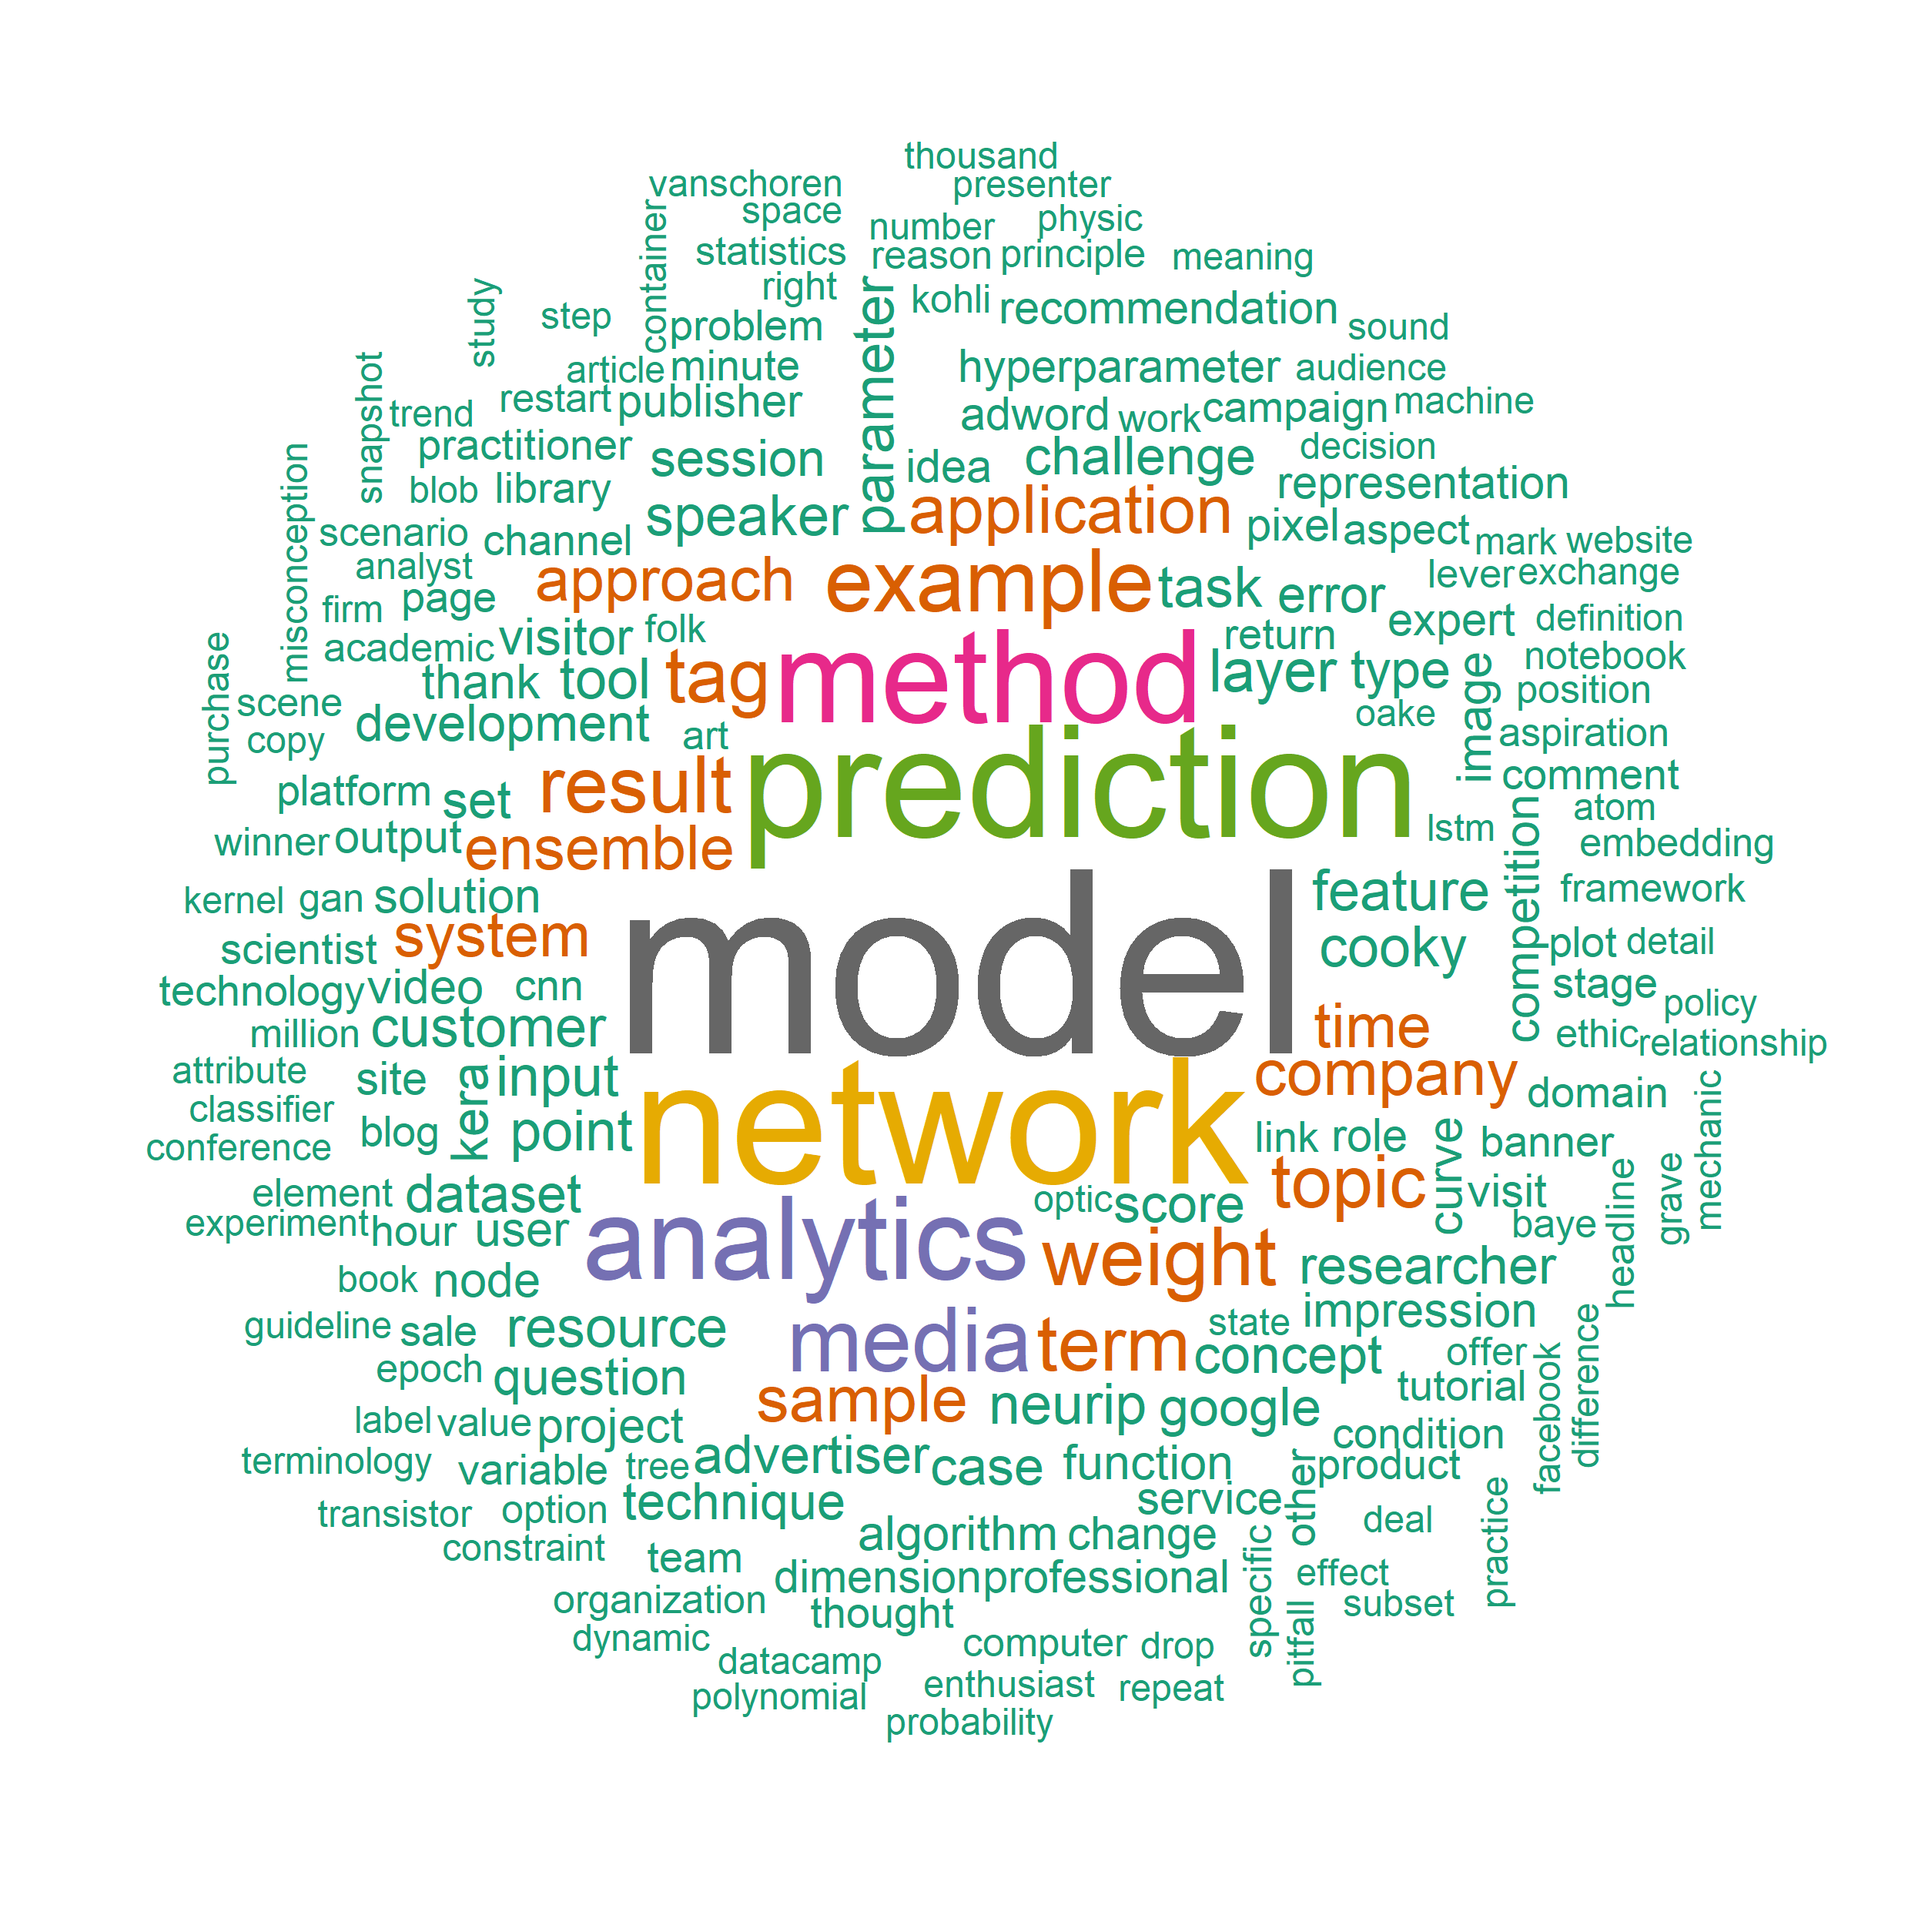
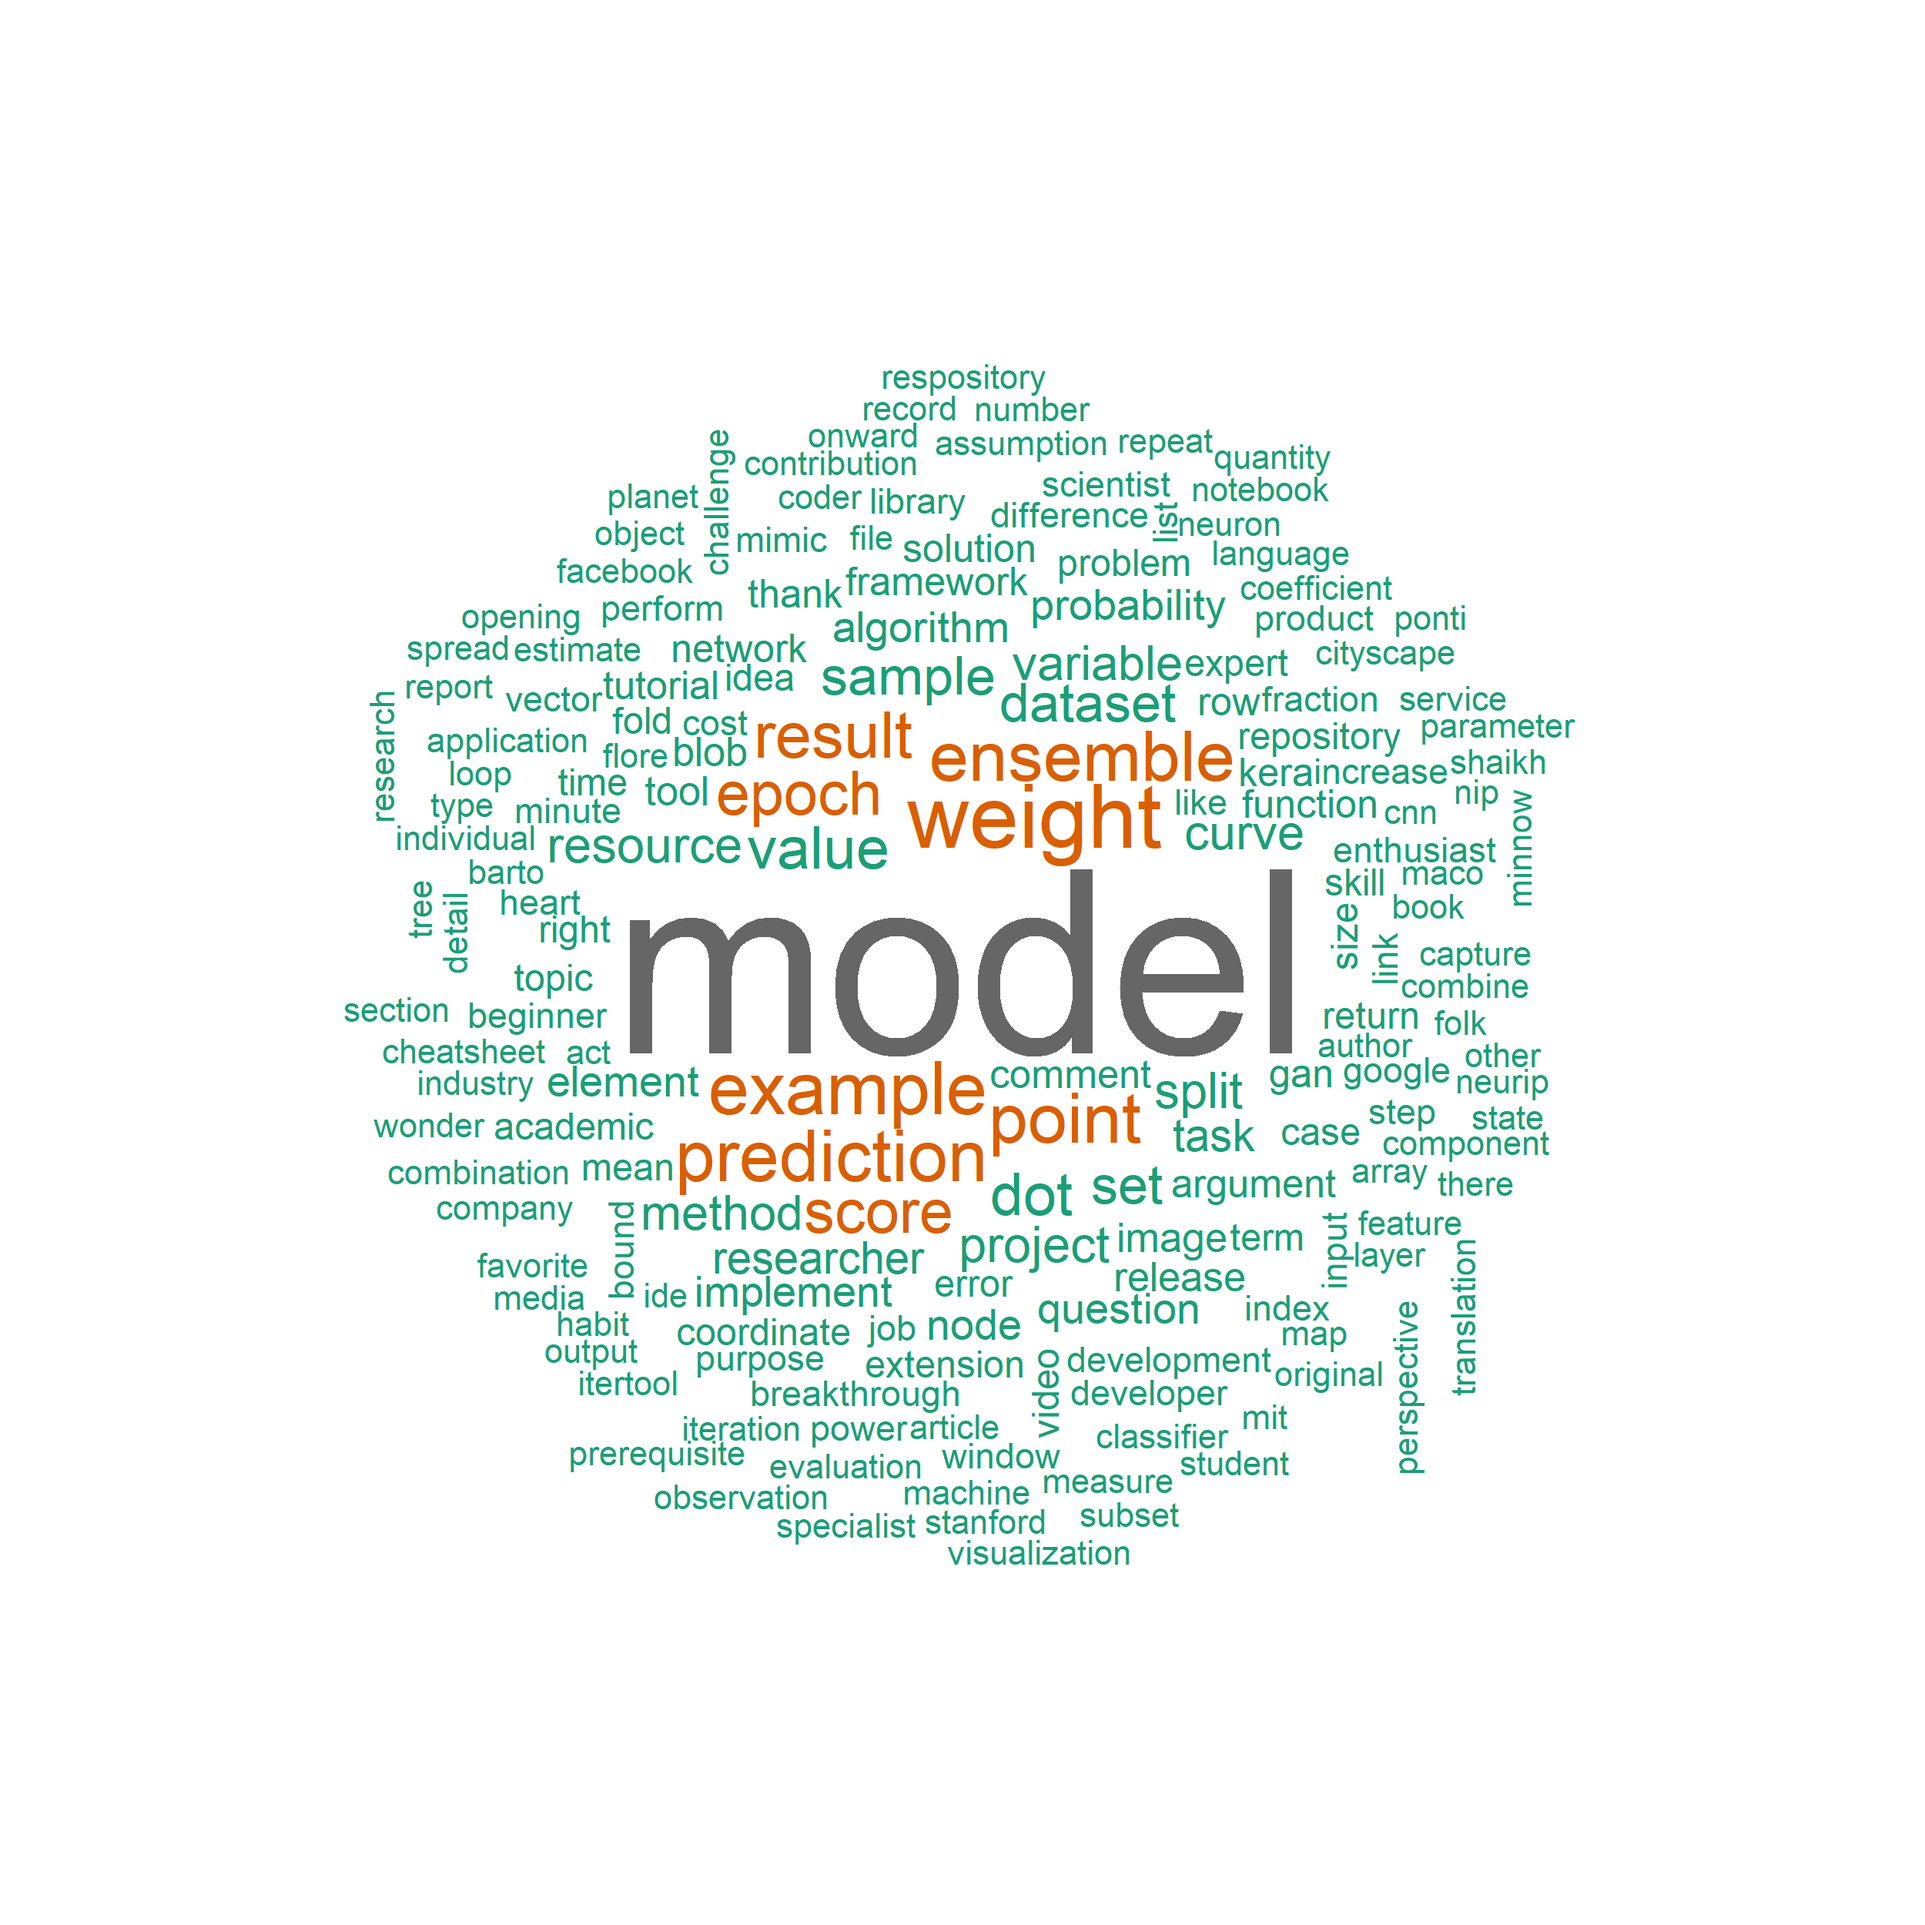
Hyunseo

Changed region(s): [[0.0936, 0.0624, 0.936, 0.9048]]

diff --git a/data/newsletter/input/html/mastery_out.html b/data/newsletter/input/html/mastery_out.html
@@ -1,3 +1,3 @@
-<ul><li><a href="https://machinelearningmastery.com/model-averaging-ensemble-for-deep-learning-neural-networks/">How to Reduce the Variance of Deep Learning Models in Keras Using Model Averaging Ensembles</a></li></ul><p style = "margin-left: 0 px">Keyword(freq): model(29), prediction(12), score(8), kera(6), point(6), sample(6), result(5), ensemble(4), variable(4), curve(3)</p>
-<ul><li><a href="https://machinelearningmastery.com/ensemble-methods-for-deep-learning-neural-networks/">Ensemble Methods for Deep Learning Neural Networks to Reduce Variance and Improve Performance</a></li></ul><p style = "margin-left: 0 px">Keyword(freq): model(37), network(32), prediction(29), method(9), weight(9), ensemble(7), result(7), error(5), layer(5), input(4)</p>
-<ul><li><a href="https://machinelearningmastery.com/introduction-to-regularization-to-reduce-overfitting-and-improve-generalization-error/">Introduction to Regularization to Reduce Overfitting of Deep Learning Neural Networks</a></li></ul><p style = "margin-left: 0 px">Keyword(freq): network(12), method(9), weight(8), example(7), parameter(6), input(5), case(4), change(4), layer(4), node(4)</p>
+<ul><li><a href="https://machinelearningmastery.com/weighted-average-ensemble-for-deep-learning-neural-networks/">How to Develop a Weighted Average Ensemble for Deep Learning Neural Networks</a></li></ul><p style = "margin-left: 0 px">Keyword(freq): weight(31), model(28), value(12), result(9), ensemble(8), point(7), example(5), dot(4), function(4), prediction(4)</p>
+<ul><li><a href="https://machinelearningmastery.com/horizontal-voting-ensemble/">How to Reduce Variance in the Final Deep Learning Model With a Horizontal Voting Ensemble</a></li></ul><p style = "margin-left: 0 px">Keyword(freq): model(41), epoch(14), point(8), prediction(7), dataset(5), score(5), example(4), result(4), curve(3), dot(3)</p>
+<ul><li><a href="https://machinelearningmastery.com/how-to-create-a-random-split-cross-validation-and-bagging-ensemble-for-deep-learning-in-keras/">How to Create a Random-Split, Cross-Validation, and Bagging Ensemble for Deep Learning in Keras</a></li></ul><p style = "margin-left: 0 px">Keyword(freq): model(45), ensemble(10), example(10), prediction(10), split(10), dot(8), score(8), set(8), method(7), point(6)</p>

diff --git a/data/newsletter/input/html/vidhya_out.html b/data/newsletter/input/html/vidhya_out.html
@@ -1,4 +1,1 @@
-<ul><li><a href="https://www.analyticsvidhya.com/blog/2018/12/datahack-radio-quantum-machine-learning/">DataHack Radio #14: Quantum Computing and Quantum Machine Learning with Dr. Mandaar Pande</a></li></ul><p style = "margin-left: 0 px">Keyword(freq): computer(3), atom(2), folk(2), mechanic(2), optic(2), physic(2), transistor(2), application(1), aspect(1), avenue(1)</p>
-<ul><li><a href="https://www.analyticsvidhya.com/blog/2018/12/key-breakthroughs-ai-ml-2018-trends-2019/">A Technical Overview of AI & ML (NLP, Computer Vision, Reinforcement Learning) in 2018 & Trends for 2019</a></li></ul><p style = "margin-left: 0 px">Keyword(freq): model(9), task(7), application(6), time(6), company(5), development(5), image(5), thought(4), analytics(3), embedding(3)</p>
-<ul><li><a href="https://www.analyticsvidhya.com/blog/2018/12/top-highlights-tutorials-neurips-2018/">Top Highlights from the Amazing Machine Learning Tutorials Presented at NeurIPS (NIPS) 2018</a></li></ul><p style = "margin-left: 0 px">Keyword(freq): method(9), neurip(9), speaker(9), system(9), researcher(7), session(7), topic(7), feature(5), model(5), term(5)</p>
-<ul><li><a href="https://www.analyticsvidhya.com/blog/2018/12/guide-digital-marketing-analytics/">A Comprehensive Guide to Digital Marketing and Analytics Every Data Science Professional Must Read</a></li></ul><p style = "margin-left: 0 px">Keyword(freq): analytics(24), media(21), tag(16), cooky(9), customer(9), advertiser(8), visitor(7), impression(6), tool(6), adword(5)</p>
+<ul><li><a href="https://www.analyticsvidhya.com/blog/2018/12/best-data-science-machine-learning-projects-github/">The 25 Best Data Science Projects on GitHub from 2018 that you Should Not Miss</a></li></ul><p style = "margin-left: 0 px">Keyword(freq): model(10), project(10), researcher(7), task(7), resource(6), image(5), release(5), tool(5), example(4), framework(4)</p>

diff --git a/data/newsletter/input/html/kaggle_out.html b/data/newsletter/input/html/kaggle_out.html
@@ -1,1 +1,1 @@
-<ul><li><a href="http://blog.kaggle.com/2018/12/19/hackathon-winner-interview-penn-state-kaggle-university-club/">Hackathon Winner Interview: Penn State | Kaggle University Club</a></li></ul><p style = "margin-left: 0 px">Keyword(freq): competition(4), aspiration(3), team(3), approach(2), art(2), idea(2), kernel(2), oake(2), algorithm(1), book(1)</p>
+<li>no new article</li>

diff --git a/data/newsletter/input/html/datacamp_out.html b/data/newsletter/input/html/datacamp_out.html
@@ -1,1 +1,1 @@
-<ul><li><a href="https://www.datacamp.com/community/blog/datacamp-announces-new-funding">DataCamp Announces New Funding</a></li></ul><p style = "margin-left: 0 px">Keyword(freq): analytics(3), company(3), datacamp(2), project(2), capability(1), exercise(1), expert(1), hint(1), integration(1), learner(1)</p>
+<li>no new article</li>

diff --git a/_posts/newsletters/2018-12-29-newsletter.md b/_posts/newsletters/2018-12-29-newsletter.md
@@ -1,0 +1,48 @@
+---
+layout: post
+title: 2018.12.29. 데이터 사이언스 뉴스레터
+category: newsletters
+tags: [Machine learning, Data Science article]
+hidden: true
+---
+
+데이터 사이언스 뉴스레터 ([wordcloud](https://raw.githubusercontent.com/2econsulting/2econsulting.github.io/master/data/newsletter/output/report/wordcloud_20181229.png))
+
+<br>
+
+#### Kaggle Blog NEWS TITLE
+
+* no new article
+
+
+
+<br>
+
+#### Data Camp NEWS TITLE
+
+* no new article
+
+
+
+<br>
+
+#### Analytics Vidhya NEWS TITLE
+
+* [The 25 Best Data Science Projects on GitHub from 2018 that you Should Not Miss](https://www.analyticsvidhya.com/blog/2018/12/best-data-science-machine-learning-projects-github/)
+<br>Keyword(freq): model(10), project(10), researcher(7), task(7), resource(6), image(5), release(5), tool(5), example(4), framework(4)
+
+<br>
+
+#### Machine Learning Mastery NEWS TITLE
+
+* [How to Develop a Weighted Average Ensemble for Deep Learning Neural Networks](https://machinelearningmastery.com/weighted-average-ensemble-for-deep-learning-neural-networks/)
+<br>Keyword(freq): weight(31), model(28), value(12), result(9), ensemble(8), point(7), example(5), dot(4), function(4), prediction(4)
+
+* [How to Reduce Variance in the Final Deep Learning Model With a Horizontal Voting Ensemble](https://machinelearningmastery.com/horizontal-voting-ensemble/)
+<br>Keyword(freq): model(41), epoch(14), point(8), prediction(7), dataset(5), score(5), example(4), result(4), curve(3), dot(3)
+
+* [How to Create a Random-Split, Cross-Validation, and Bagging Ensemble for Deep Learning in Keras](https://machinelearningmastery.com/how-to-create-a-random-split-cross-validation-and-bagging-ensemble-for-deep-learning-in-keras/)
+<br>Keyword(freq): model(45), ensemble(10), example(10), prediction(10), split(10), dot(8), score(8), set(8), method(7), point(6)
+
+<br>
+
